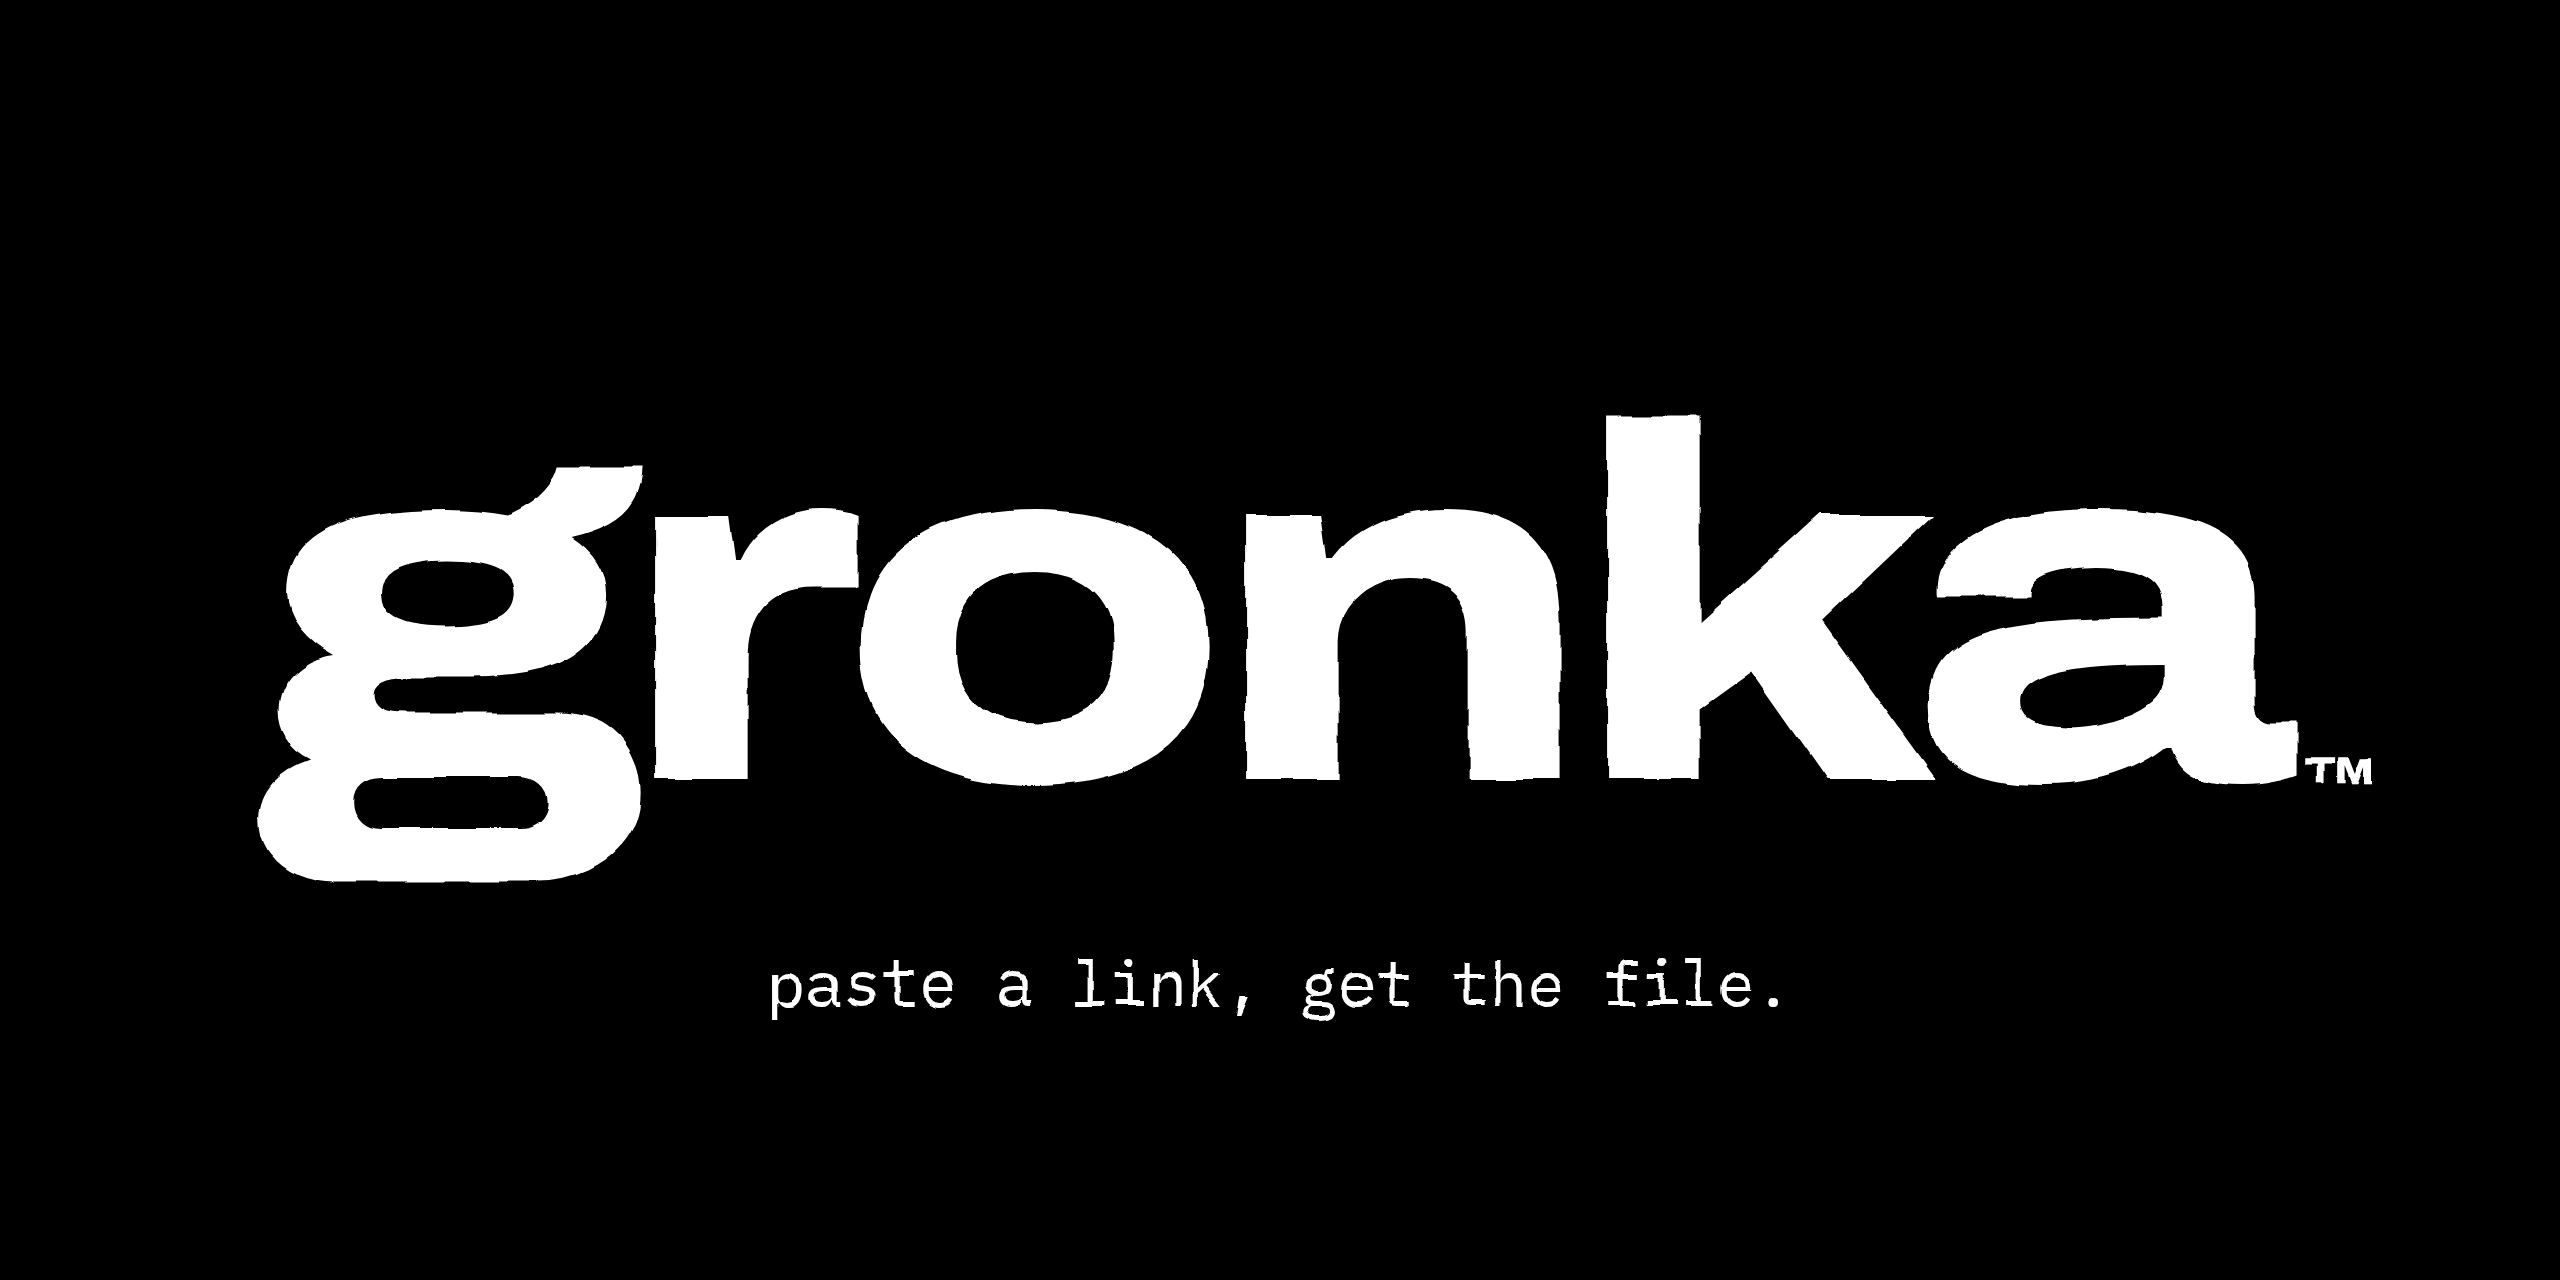
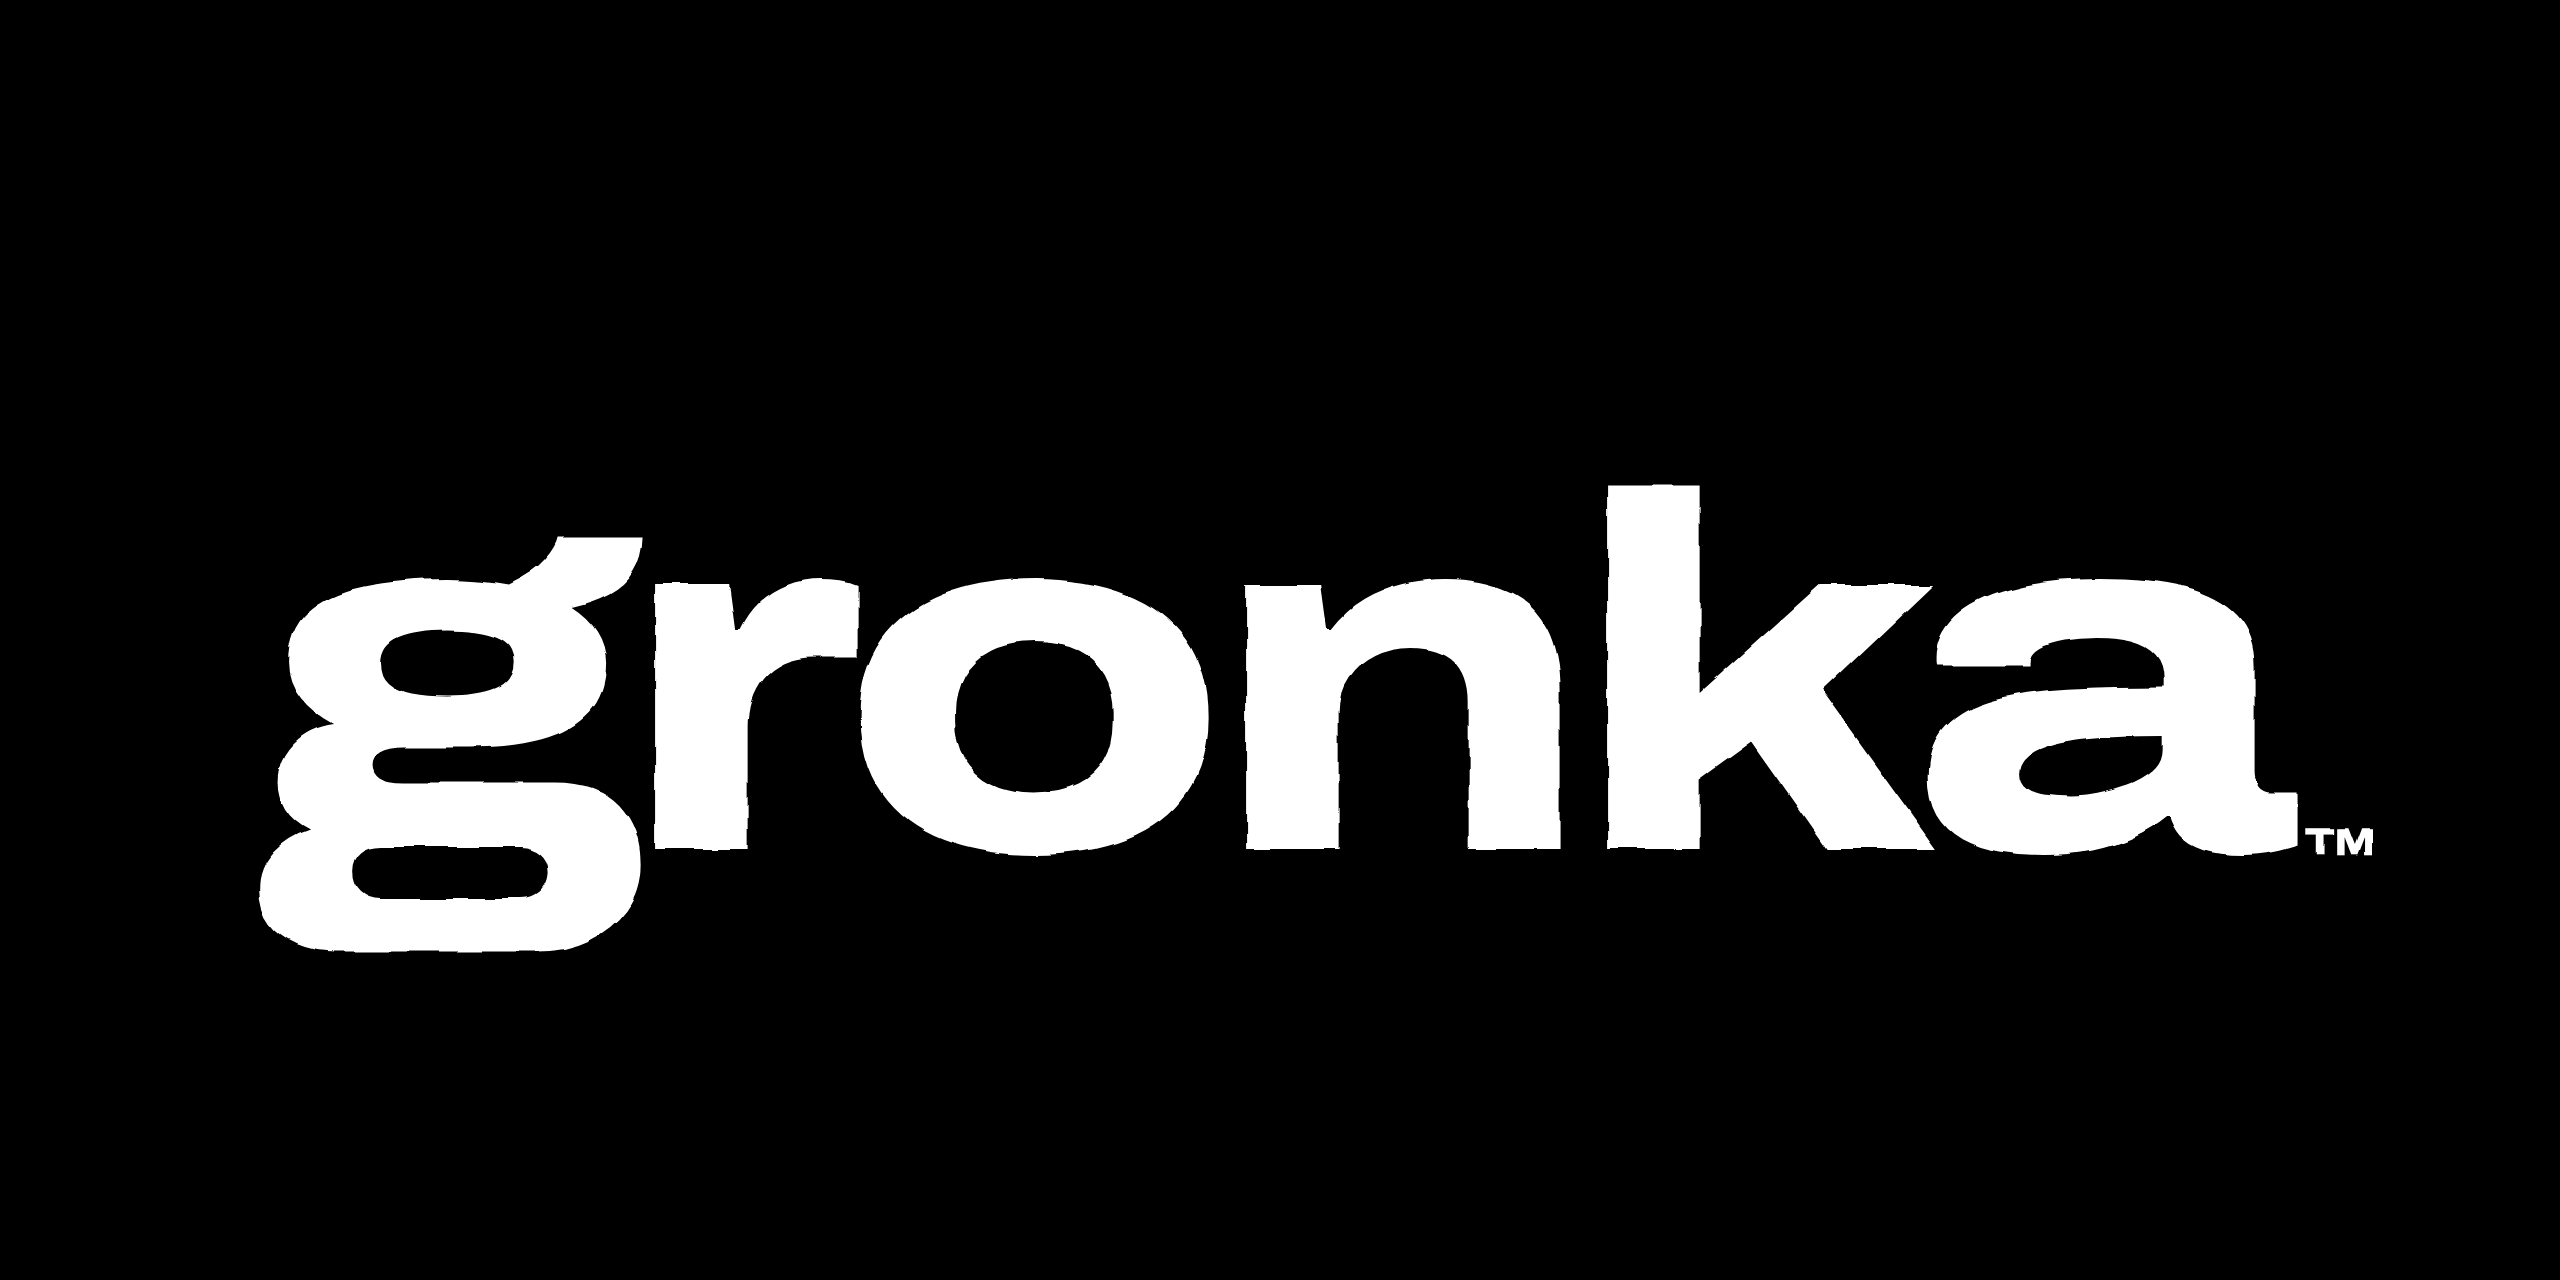
docs: plain descriptions replace the tagline on the site, README and /info

diff --git a/web/public/index.html b/web/public/index.html
@@ -6,7 +6,7 @@
     <title>gronka: free video downloader, no ads, no account</title>
     <meta
       name="description"
-      content="paste a link from tiktok, instagram, x, youtube, reddit and more, get the file. free, no ads, no account, no request logs."
+      content="download videos, images and audio from tiktok, instagram, x, youtube, reddit and 40+ more sites. free, no ads, no account, no request logs."
     />
     <meta name="theme-color" content="#ffffff" media="(prefers-color-scheme: light)" />
     <meta name="theme-color" content="#000000" media="(prefers-color-scheme: dark)" />
@@ -18,14 +18,14 @@
     <meta property="og:title" content="gronka: free video downloader, no ads, no account" />
     <meta
       property="og:description"
-      content="paste a link from tiktok, instagram, x, youtube, reddit and more, get the file. free, no ads, no account, no request logs."
+      content="download videos, images and audio from tiktok, instagram, x, youtube, reddit and 40+ more sites. free, no ads, no account, no request logs."
     />
     <meta property="og:image" content="https://gronka.dev/og.png" />
     <meta property="og:image:width" content="1200" />
     <meta property="og:image:height" content="630" />
     <meta
       property="og:image:alt"
-      content="the gronka penguin next to the words paste a link, get the file."
+      content="the gronka penguin next to the words media downloader."
     />
     <meta name="twitter:card" content="summary_large_image" />
     <link
@@ -93,9 +93,10 @@
     </header>
 
     <main>
-      <h1>paste a link,<br />get the file.</h1>
+      <h1>gronka</h1>
       <p class="lede">
-        tiktok, instagram, x, youtube, reddit and a lot more. the discord bot, in your browser.
+        downloads videos, images and audio from tiktok, instagram, x, youtube, reddit and 40+ more
+        sites. free, no ads, no account.
       </p>
 
       <p id="asleep" class="asleep ink" hidden>

diff --git a/src/commands/info.js b/src/commands/info.js
@@ -53,7 +53,7 @@ export function infoEmbed({ botStartTime, client, overview, workersEnabled, botR
   return new EmbedBuilder()
     .setAuthor({ name: 'gronka', iconURL: client.user?.displayAvatarURL(), url: SITE_URL })
     .setColor(0x5865f2)
-    .setDescription(`paste a link, get the file.\n${links.join(' · ')}`)
+    .setDescription(`downloads, converts and optimizes media from 40+ sites.\n${links.join(' · ')}`)
     .addFields(
       field('servers', client.guilds.cache.size.toLocaleString('en-US')),
       field('uptime', uptimeLine(uptime, client.uptime ?? 0)),

diff --git a/web/public/docs/index.html b/web/public/docs/index.html
@@ -81,7 +81,7 @@
       </aside>
       <main>
         <section aria-labelledby="intro-title">
-          <h1 id="intro-title">paste a link, get the file.</h1>
+          <h1 id="intro-title">gronka api</h1>
           <p class="preview" id="preview">
             public preview: the api runs at <code>api.gronka.dev</code>, but it may still change
             before the release.

diff --git a/src/web-server.js b/src/web-server.js
@@ -41,8 +41,7 @@ const MAX_WINDOWS = 10_000;
 const DOCS_URL = 'https://gronka.dev/docs/';
 const API_INDEX = {
   name: 'gronka',
-  about:
-    'paste a link, get the file. the same downloader as the gronka discord bot, as a json api.',
+  about: 'the same downloader as the gronka discord bot, as a json api.',
   version: 'v1',
   status: 'public preview',
   docs: DOCS_URL,

diff --git a/README.md b/README.md
@@ -10,7 +10,7 @@
   <a href="https://gronka.dev"><img src="https://img.shields.io/badge/web-gronka.dev-000" alt="gronka.dev"></a>
 </p>
 
-paste a link, get the file. gronka™ downloads media from 40+ sites, turns video into gifs and shrinks
+gronka™ downloads media from 40+ sites, turns video into gifs and shrinks
 gifs, as a discord bot and on [gronka.dev](https://gronka.dev).
 
 ## commands
